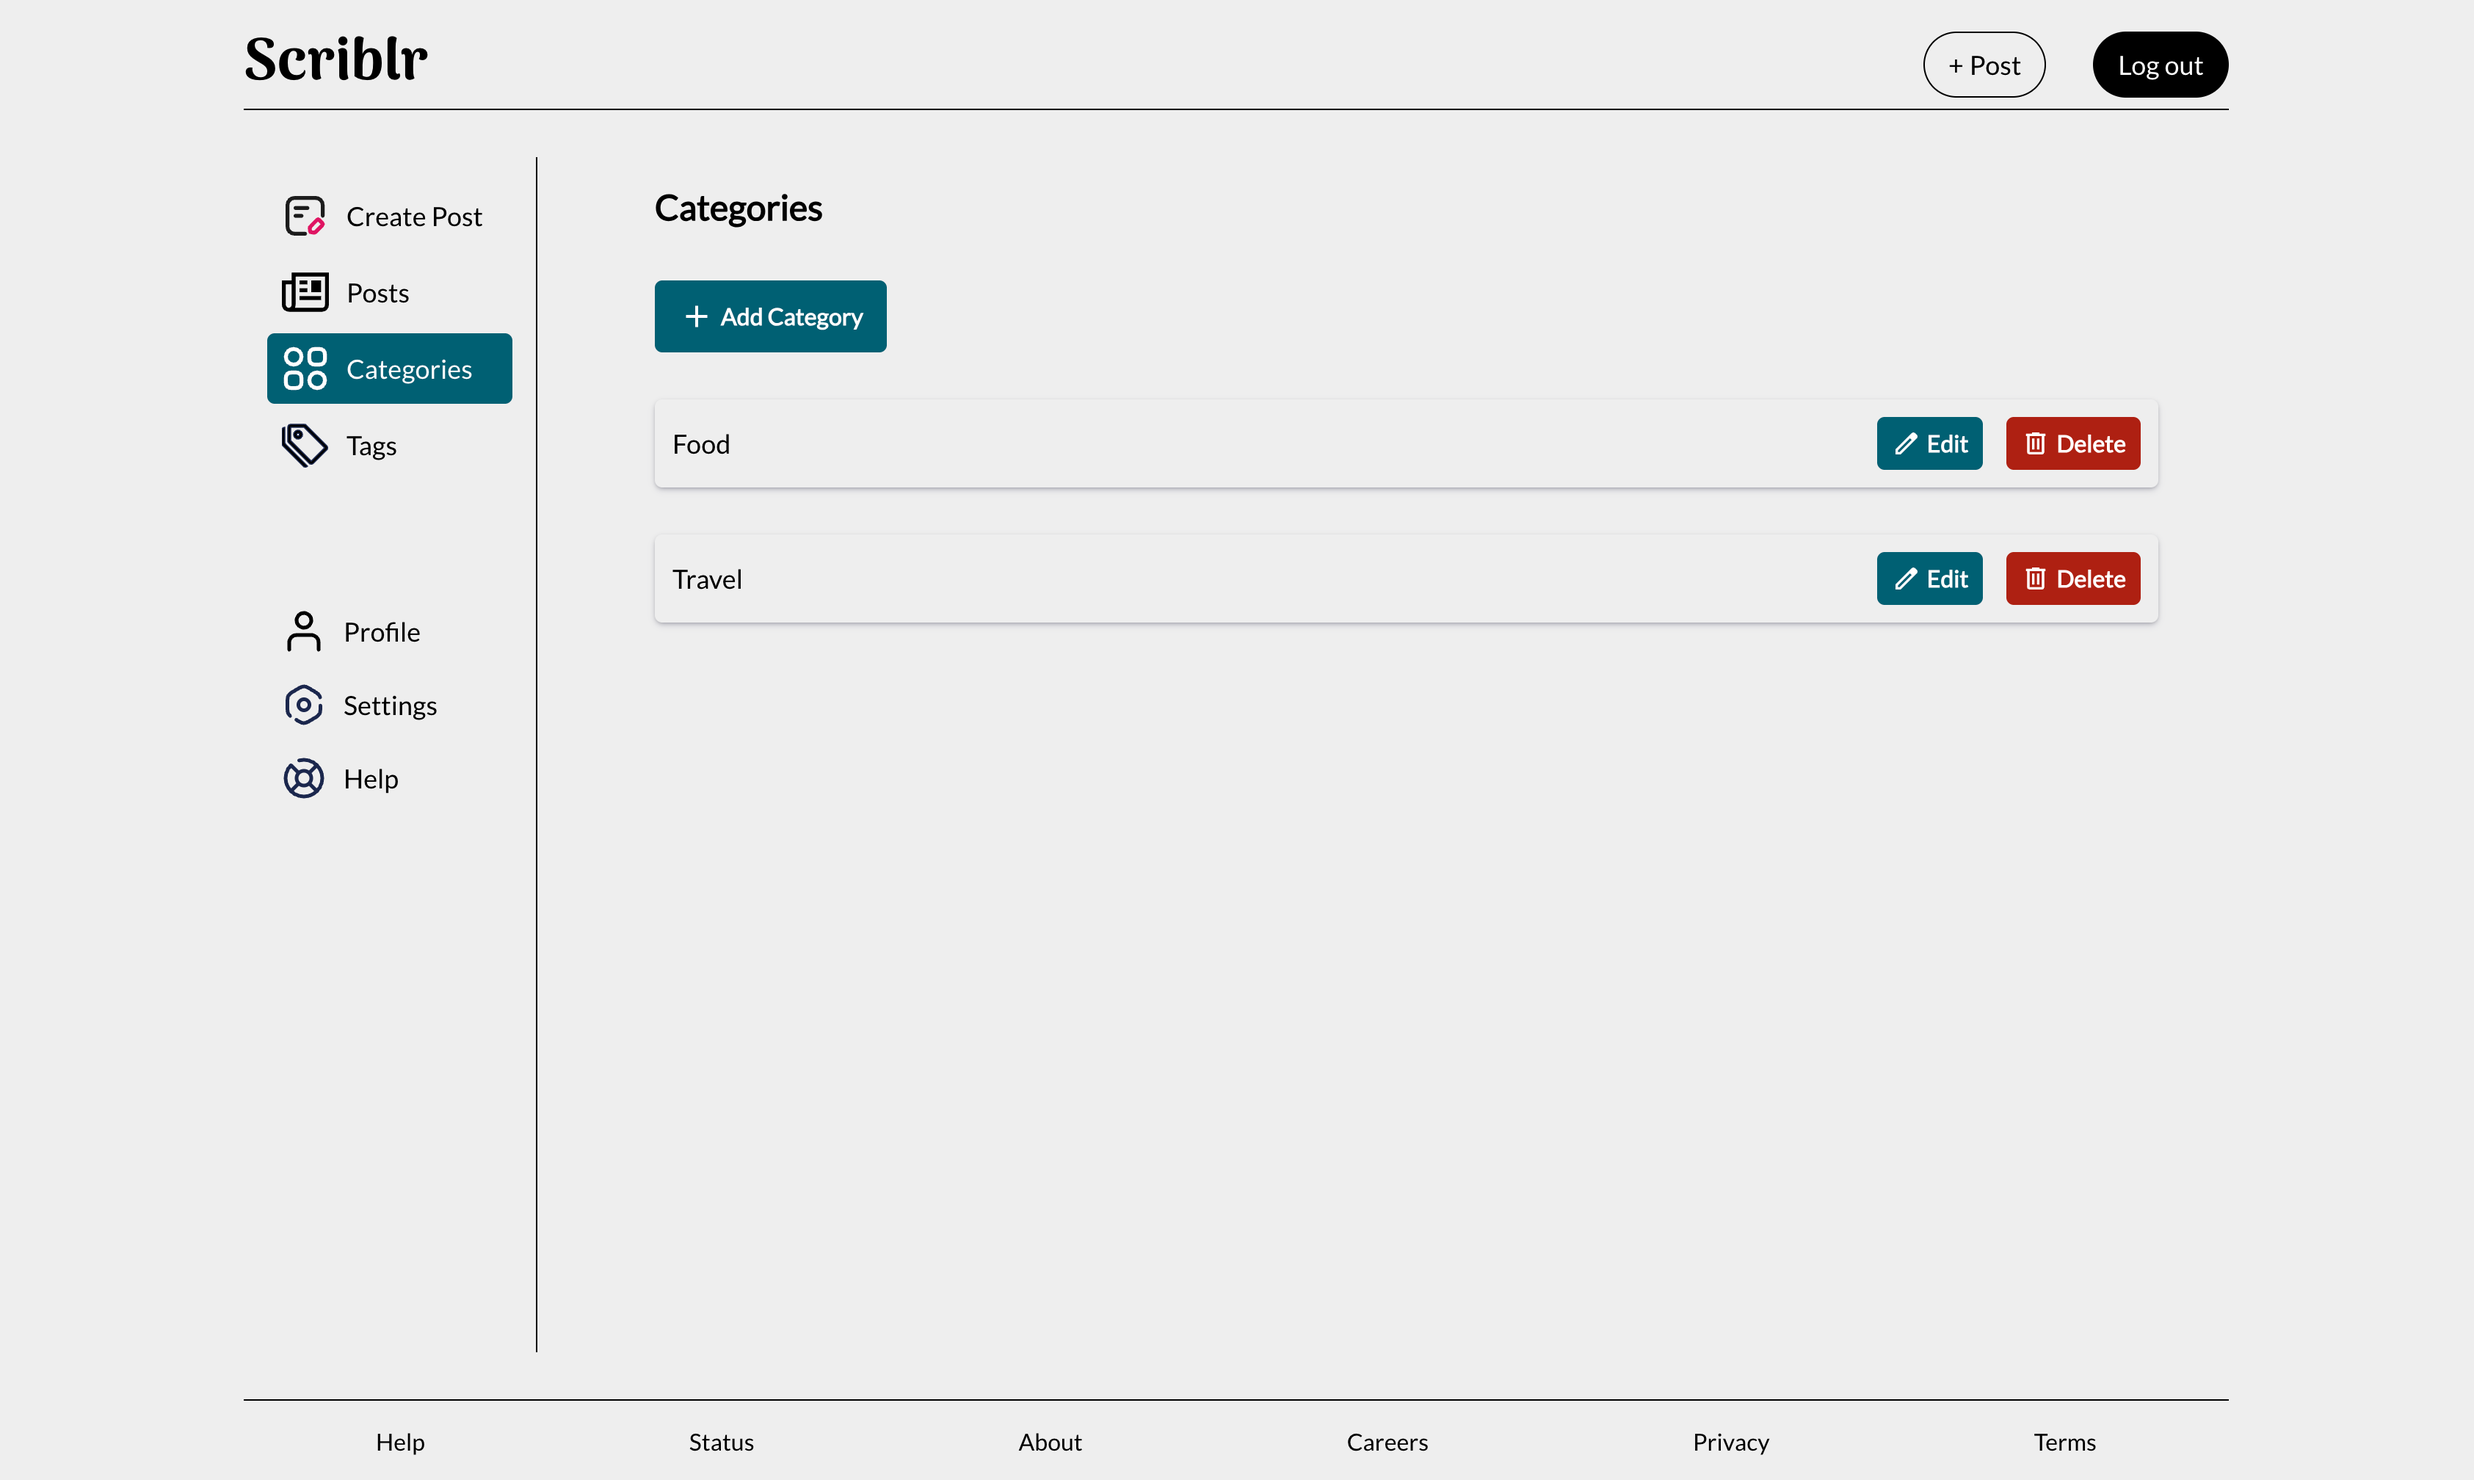
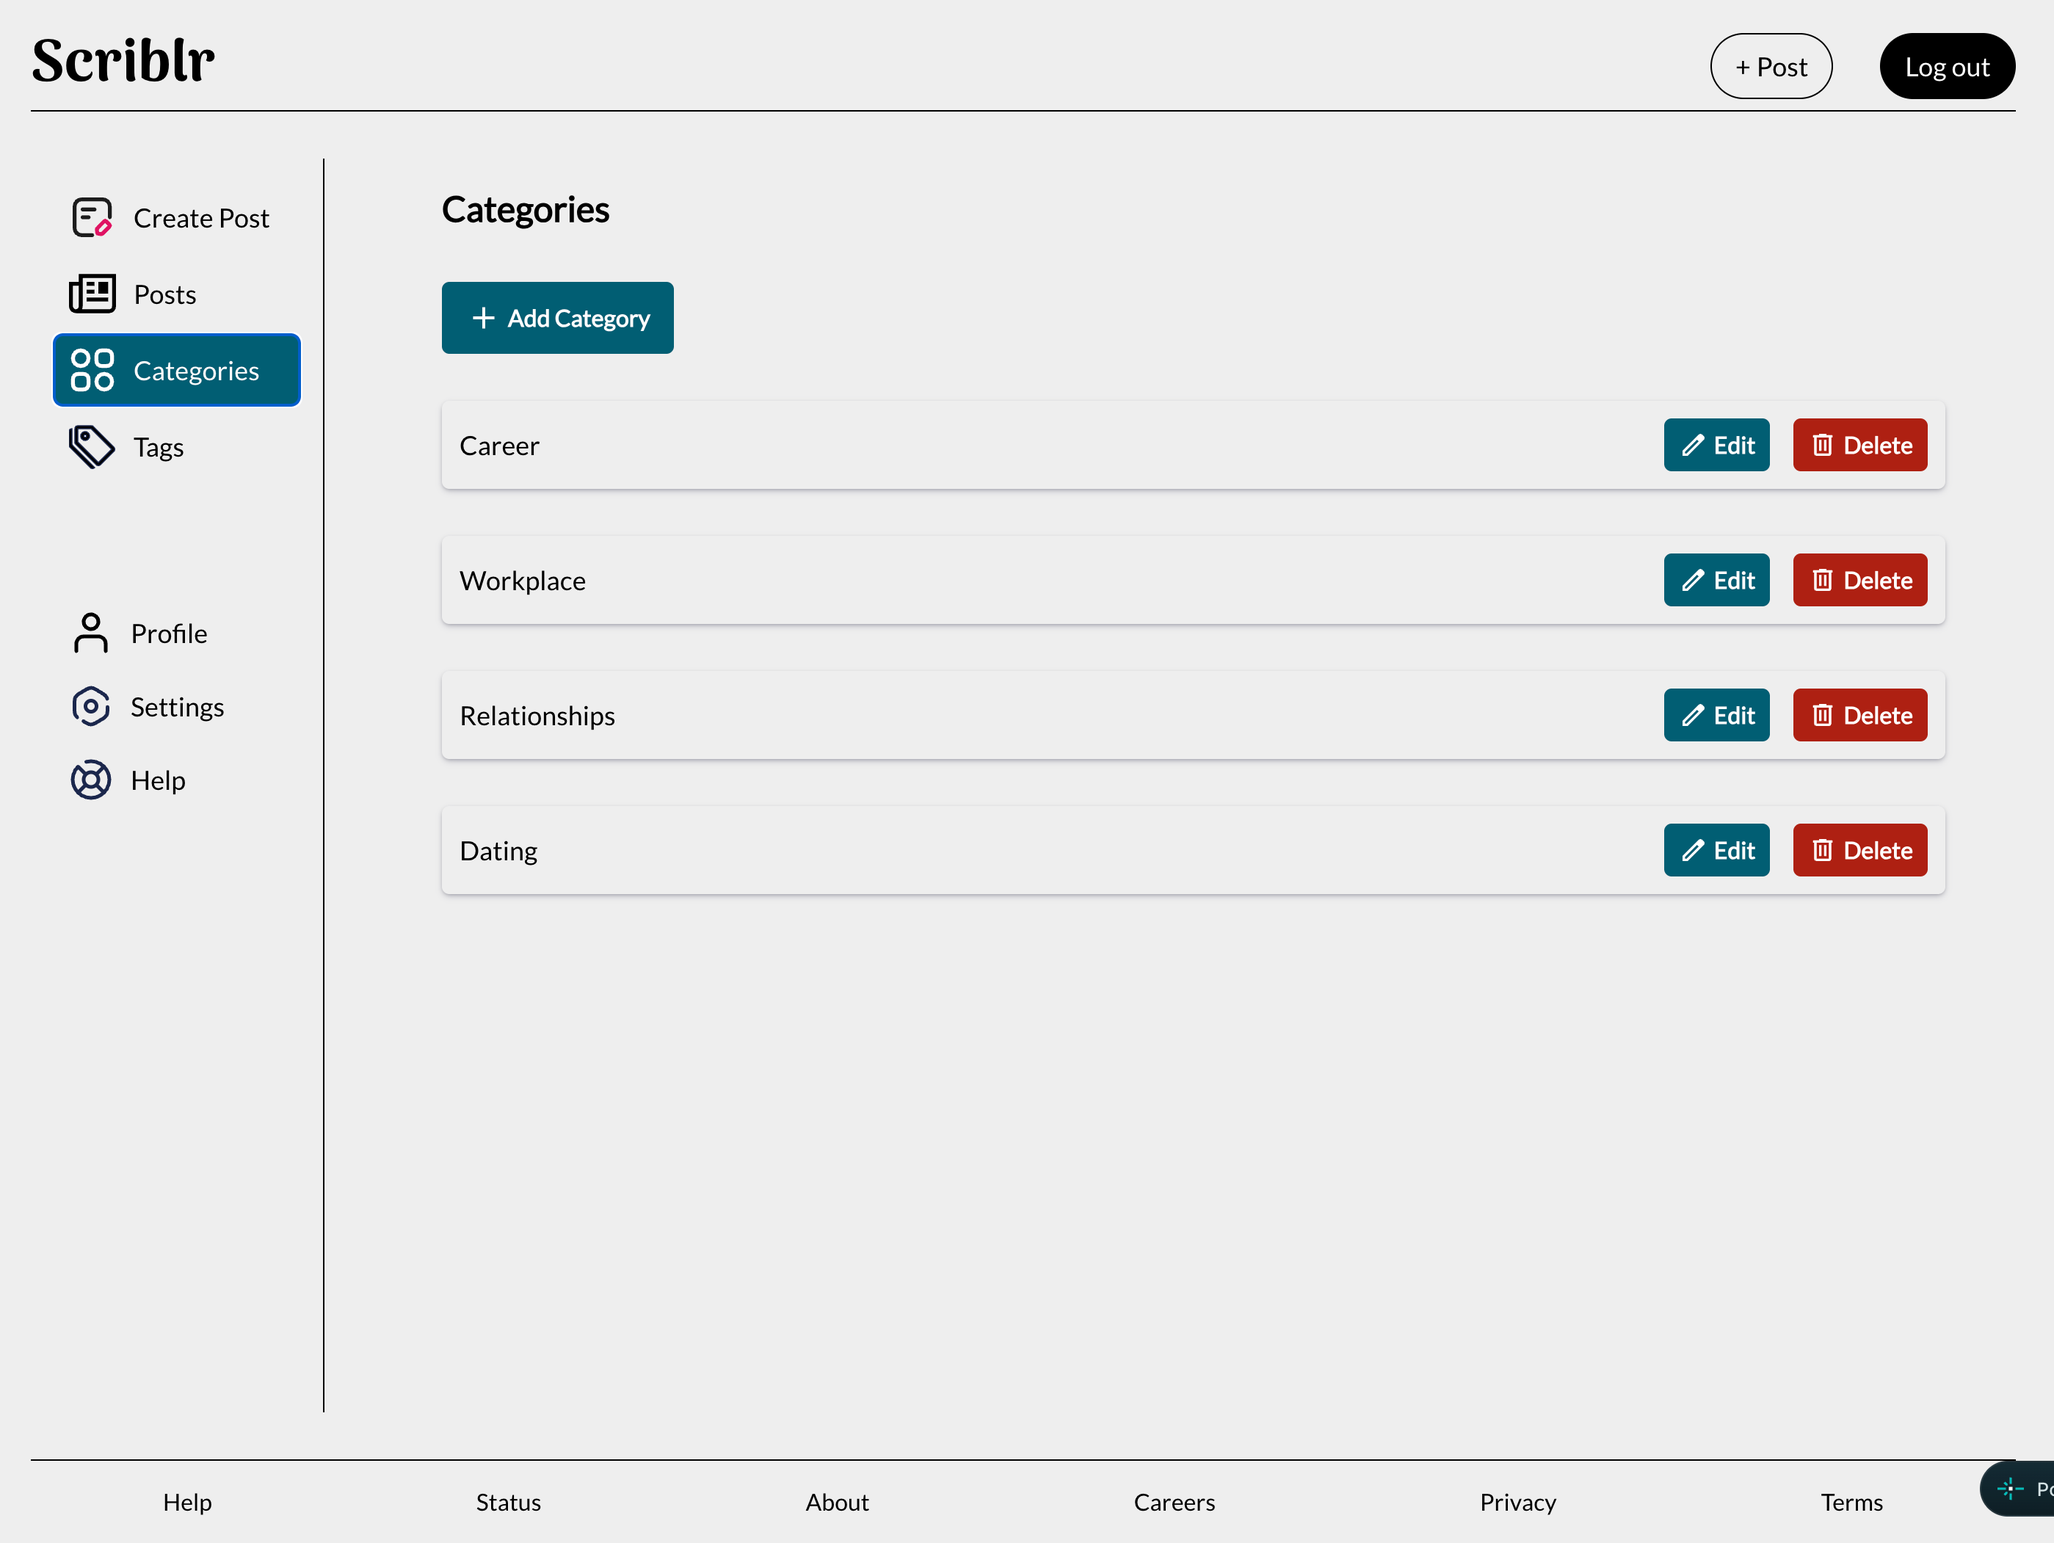
docs(readme): Add live page link and screenshots

diff --git a/README.md b/README.md
@@ -69,24 +69,24 @@ Author Portal is a dedicated React frontend application designed specifically fo
 <table>
   <tr>
     <td align="center">
-      <img src="" alt="Homepage" width="400">
+      <img src="./src/assets/images/screenshots/dashboard.png" alt="Dashboard" width="400">
       <br>
-      <em>Homepage</em>
+      <em>Dashboard</em>
     </td>
     <td align="center">
-      <img src="" alt="New Post" width="400">
+      <img src="./src/assets/images/screenshots/new-post.png" alt="New Post" width="400">
       <br>
       <em>New Post</em>
     </td>
   </tr>
   <tr>
     <td align="center">
-      <img src="" alt="Posts" width="400">
+      <img src="./src/assets/images/screenshots/post.png" alt="Post" width="400">
       <br>
-      <em>Posts</em>
+      <em>Post</em>
     </td>
     <td align="center">
-      <img src="" alt="Categories" width="400">
+      <img src="./src/assets/images/screenshots/categories.png" alt="Categories" width="400">
       <br>
       <em>Categories</em>
     </td>
@@ -98,7 +98,7 @@ Author Portal is a dedicated React frontend application designed specifically fo
 ## 🔗 Links
 
 - [Solution URL](https://github.com/py-code314/file-uploader)
-- [Live Page]()
+- [Live Page](https://chicken-run-blog-api.netlify.app/)
 
 
 
